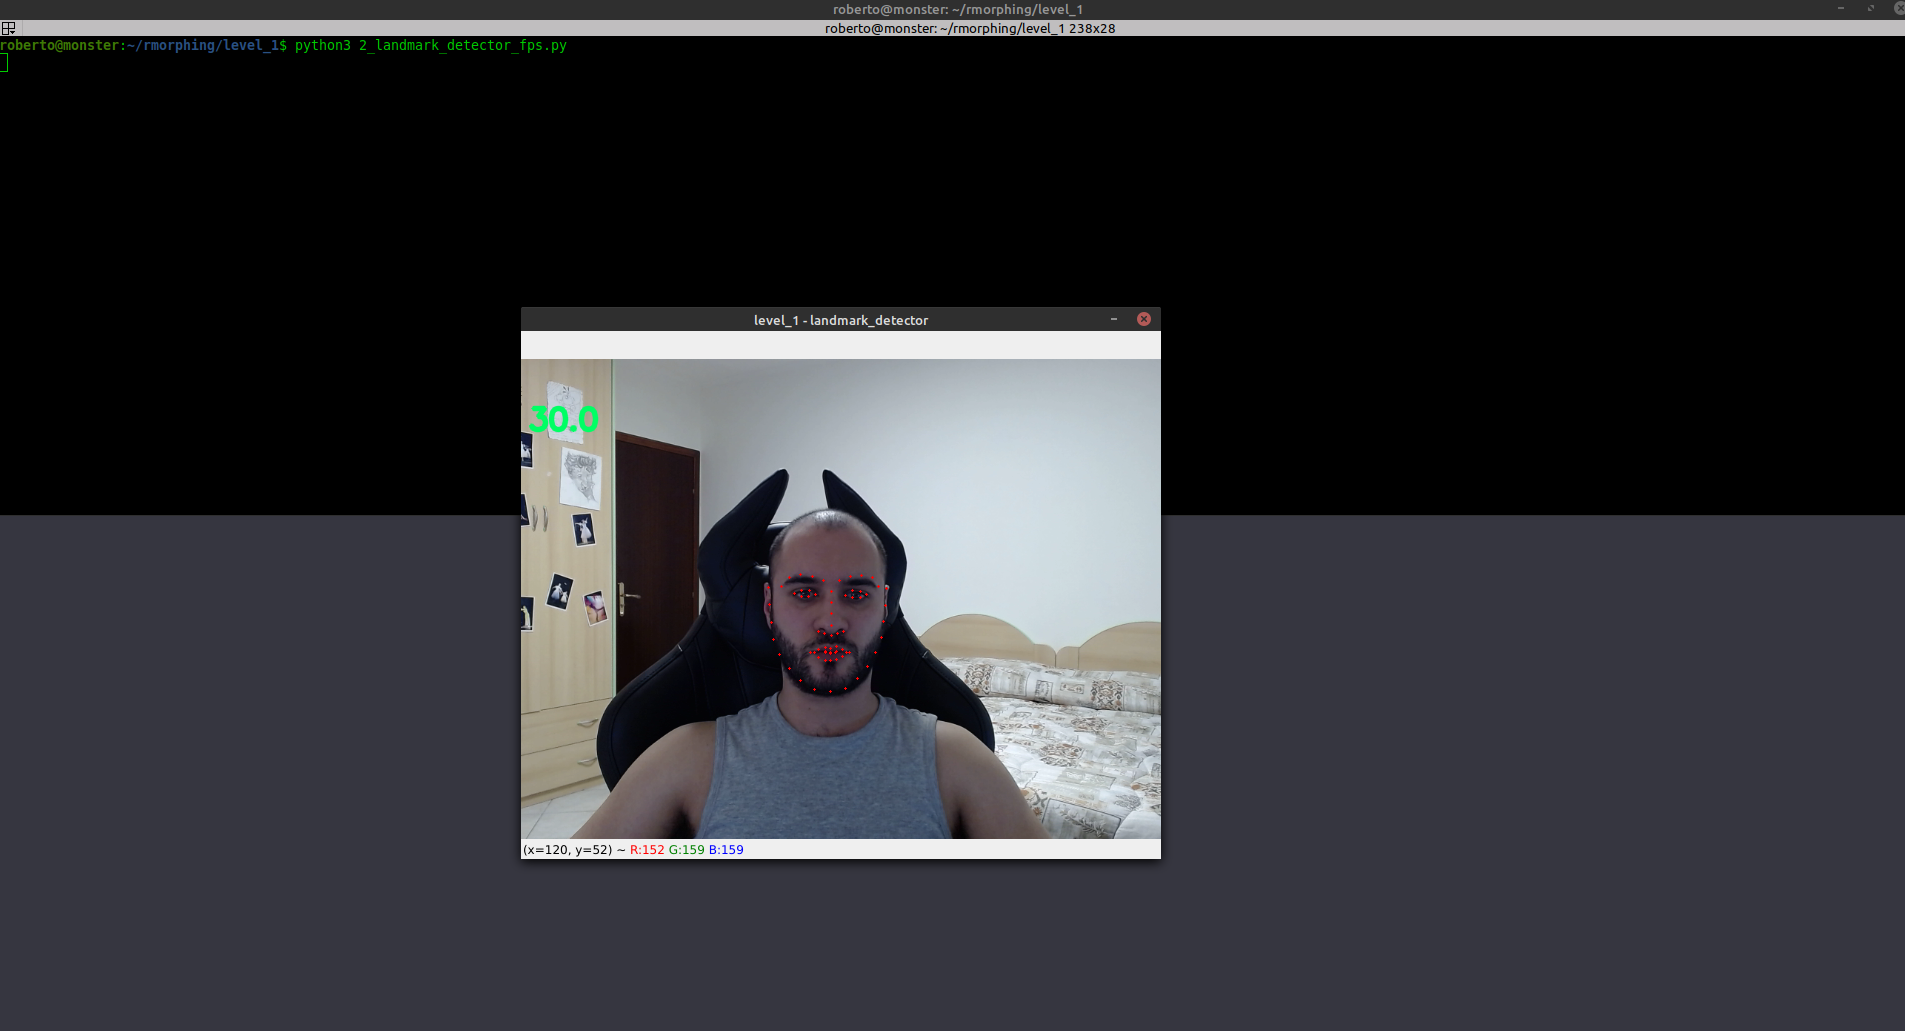
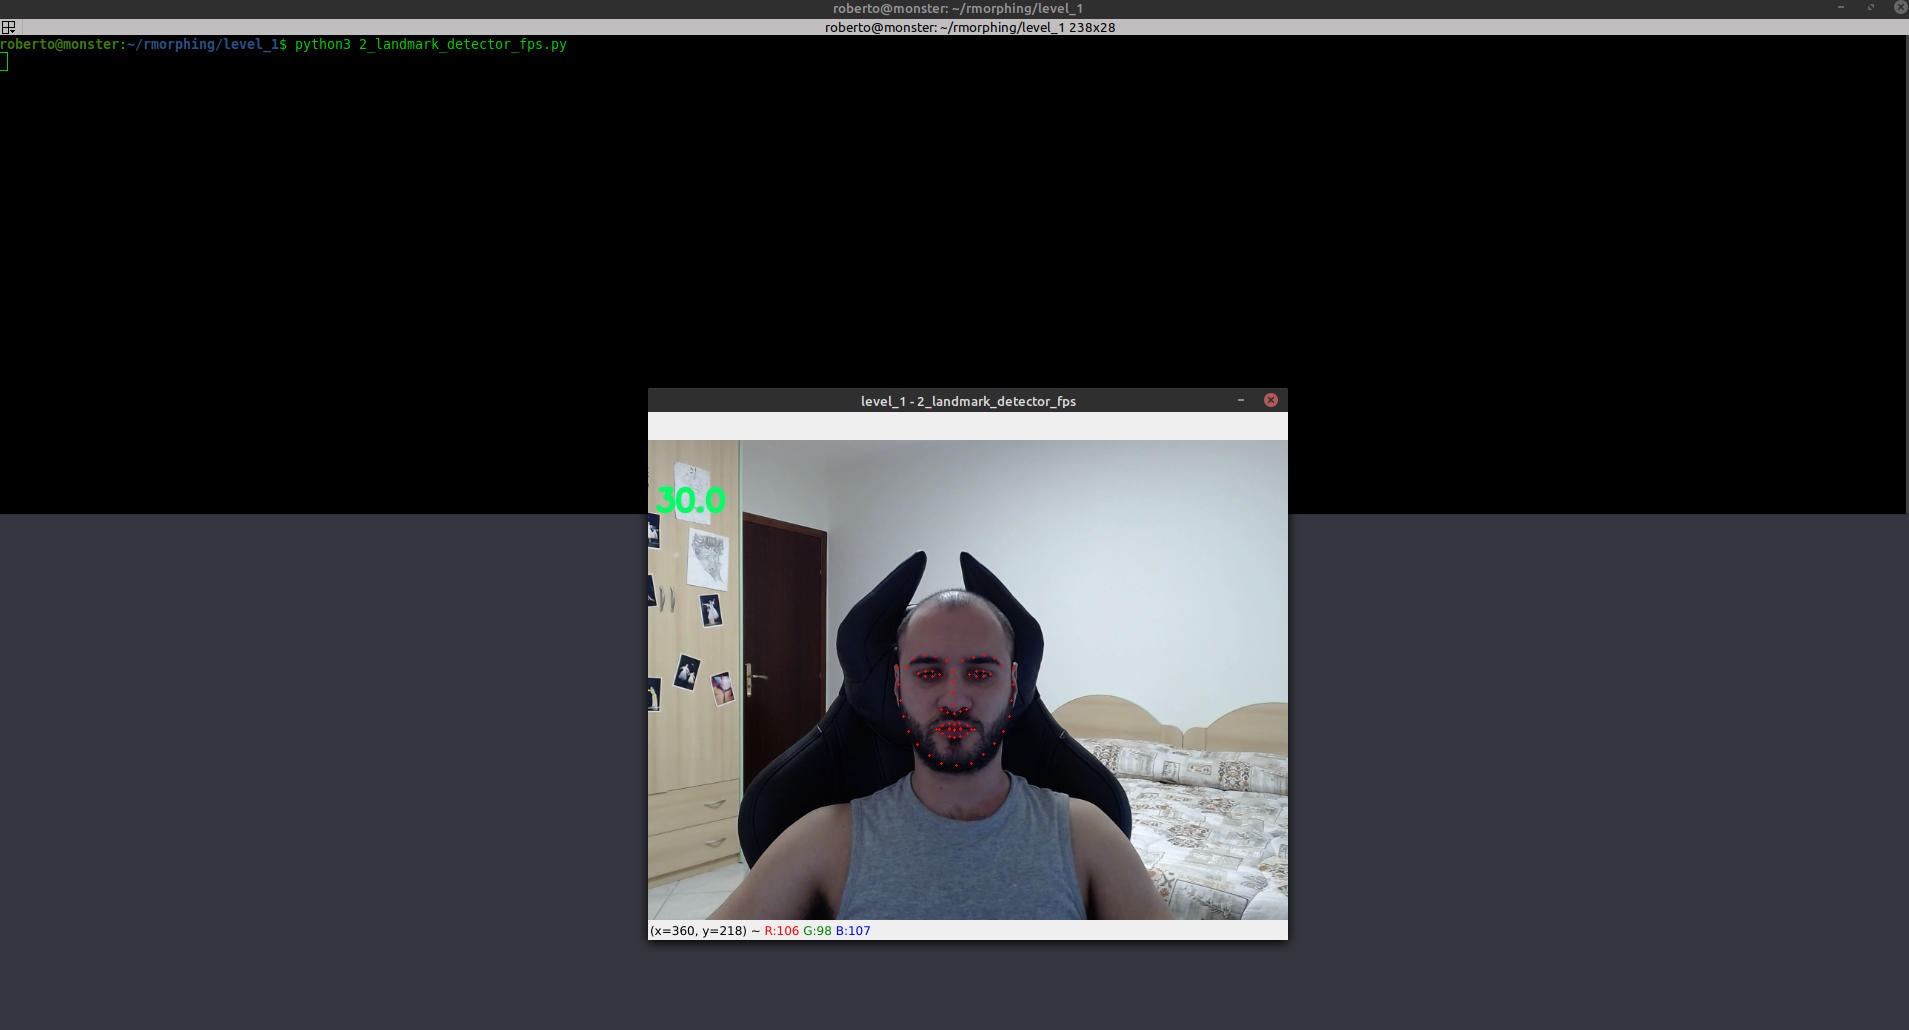
[FIX] typos

diff --git a/level_1/2_landmark_detector_fps.py b/level_1/2_landmark_detector_fps.py
@@ -4,7 +4,7 @@ import dlib
 import cv2 as cv
 
 PREDICTOR_PATH = '../opencv_utils/predictors/shape_predictor_68_face_landmarks.dat'
-FRAME_NAME = 'level_1 - landmark_detector'
+FRAME_NAME = 'level_1 - 2_landmark_detector_fps'
 
 detector = dlib.get_frontal_face_detector()
 predictor = dlib.shape_predictor(PREDICTOR_PATH)

diff --git a/level_1/1_landmark_detector.py b/level_1/1_landmark_detector.py
@@ -4,7 +4,7 @@ import dlib
 import cv2 as cv
 
 PREDICTOR_PATH = '../opencv_utils/predictors/shape_predictor_68_face_landmarks.dat'
-FRAME_NAME = 'level_1 - landmark_detector'
+FRAME_NAME = 'level_1 - 1_landmark_detector'
 
 detector = dlib.get_frontal_face_detector()
 predictor = dlib.shape_predictor(PREDICTOR_PATH)

diff --git a/level_1/0_videocapture.py b/level_1/0_videocapture.py
@@ -1,7 +1,7 @@
 from __future__ import print_function
 import cv2 as cv
 
-FRAME_NAME = 'level_0 - videocapture'
+FRAME_NAME = 'level_0 - 0_videocapture'
 
 def detect_and_display(frame):
     cv.imshow(FRAME_NAME, frame)
